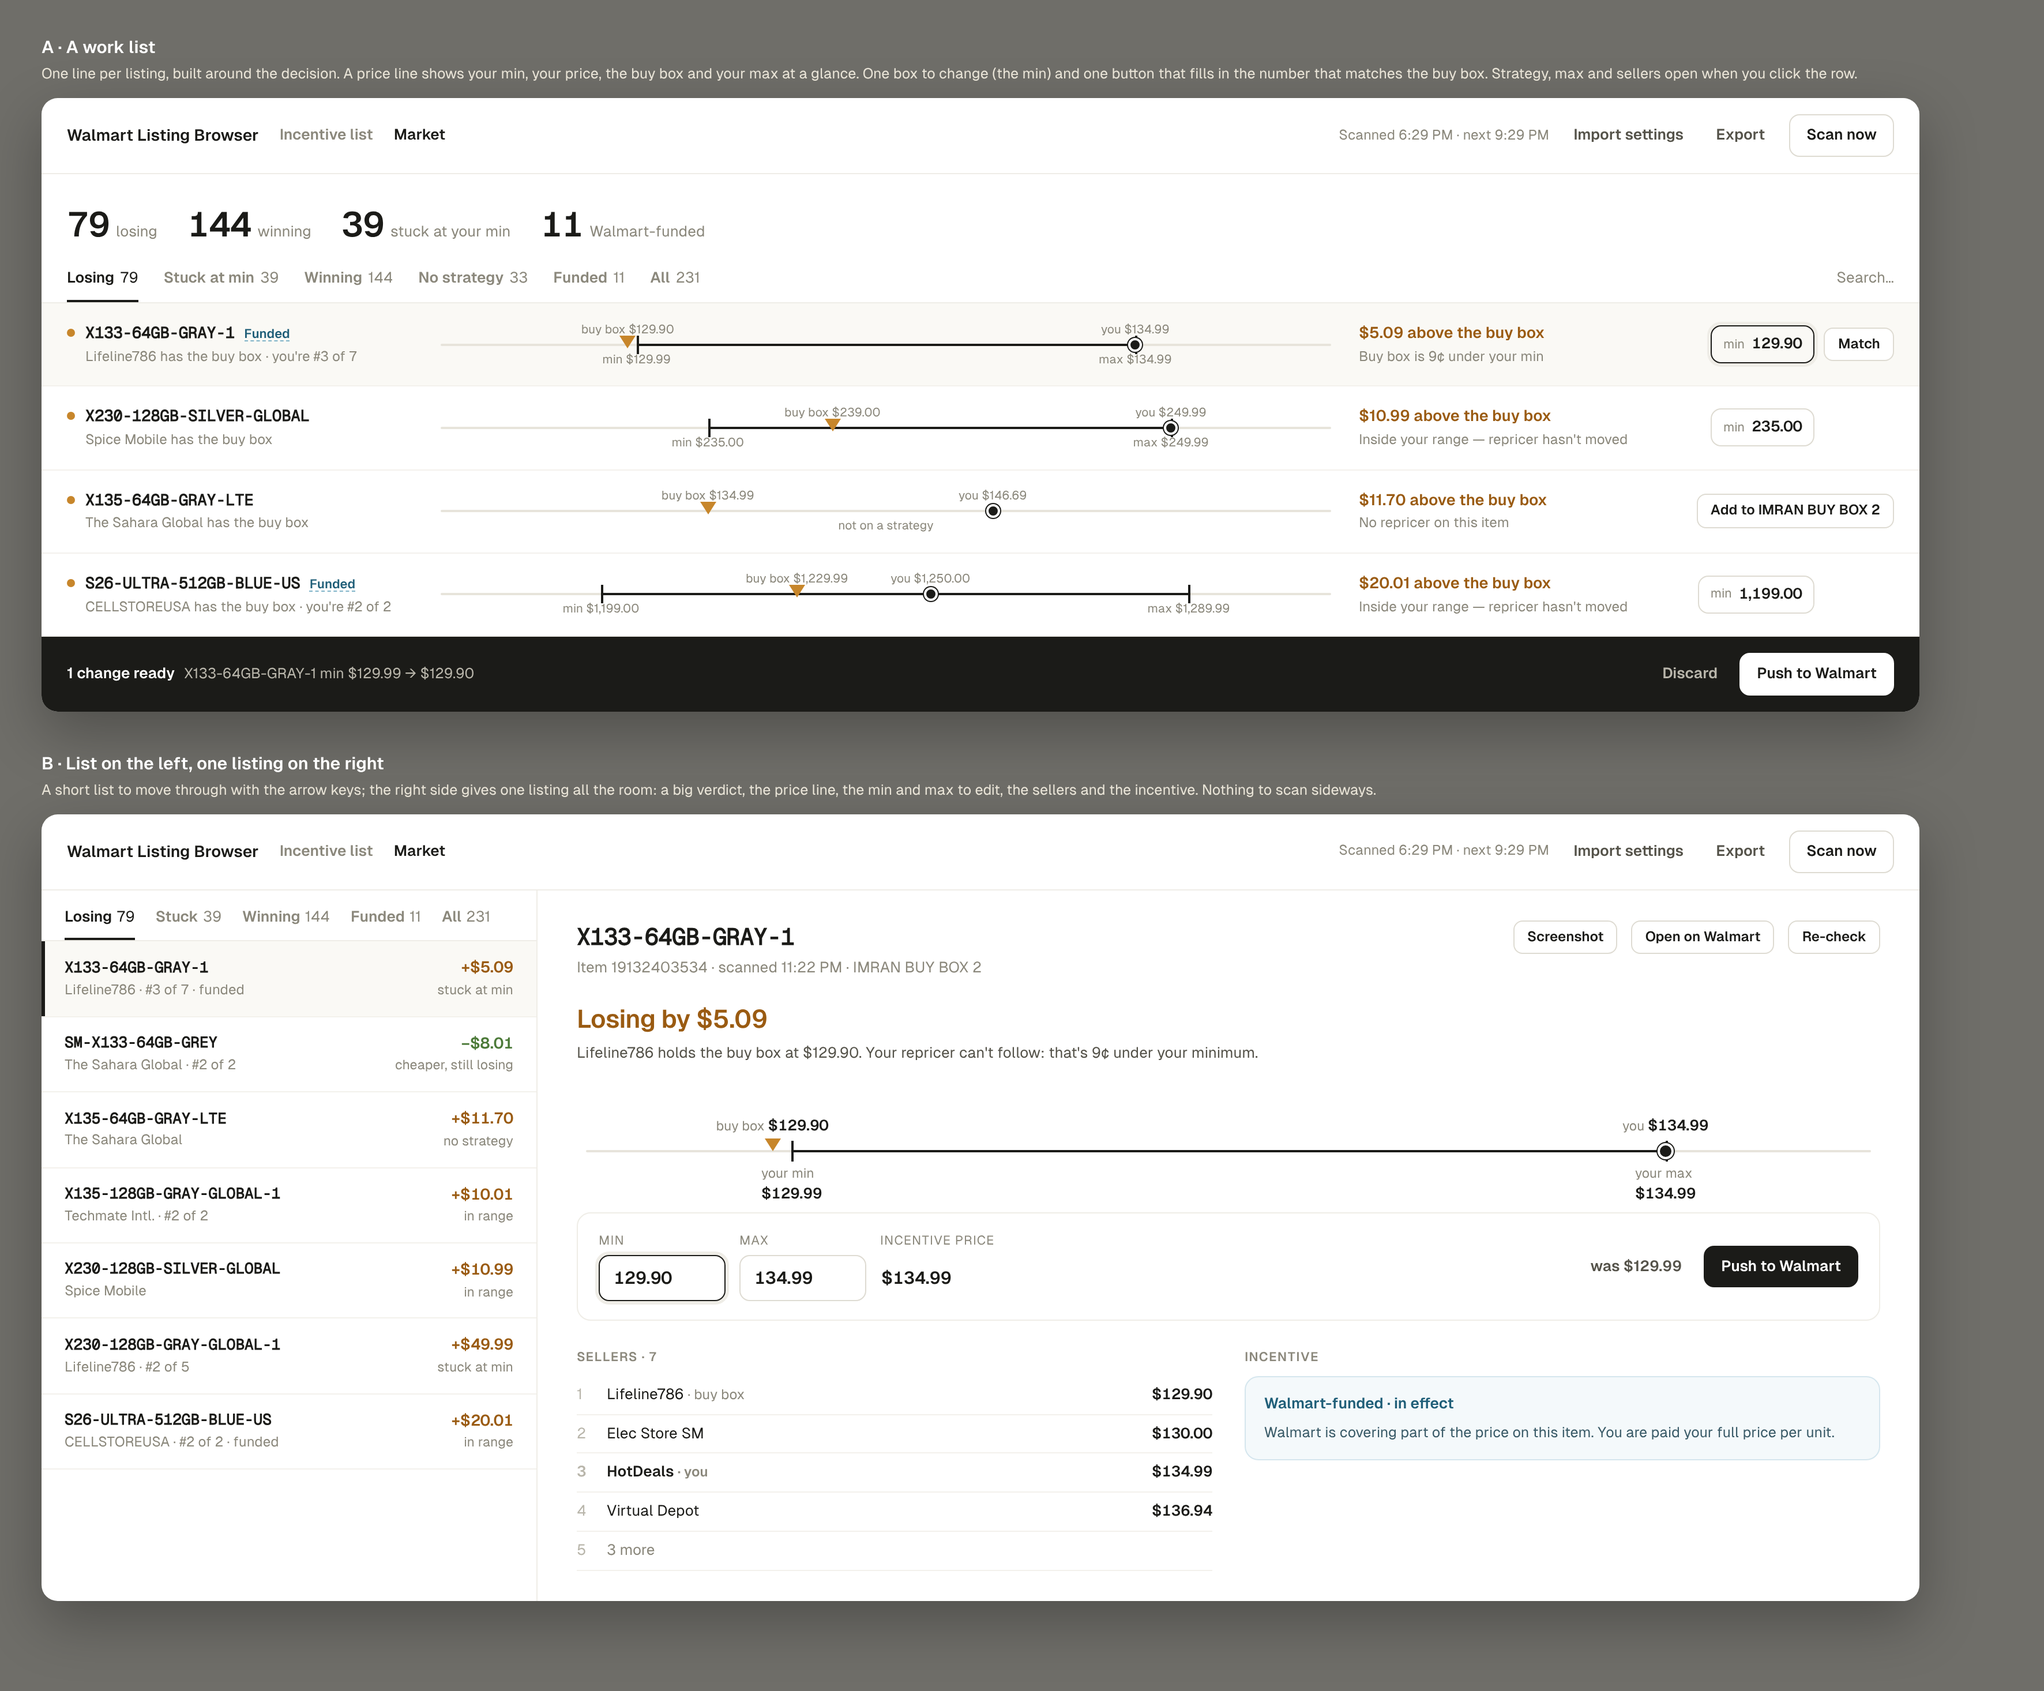
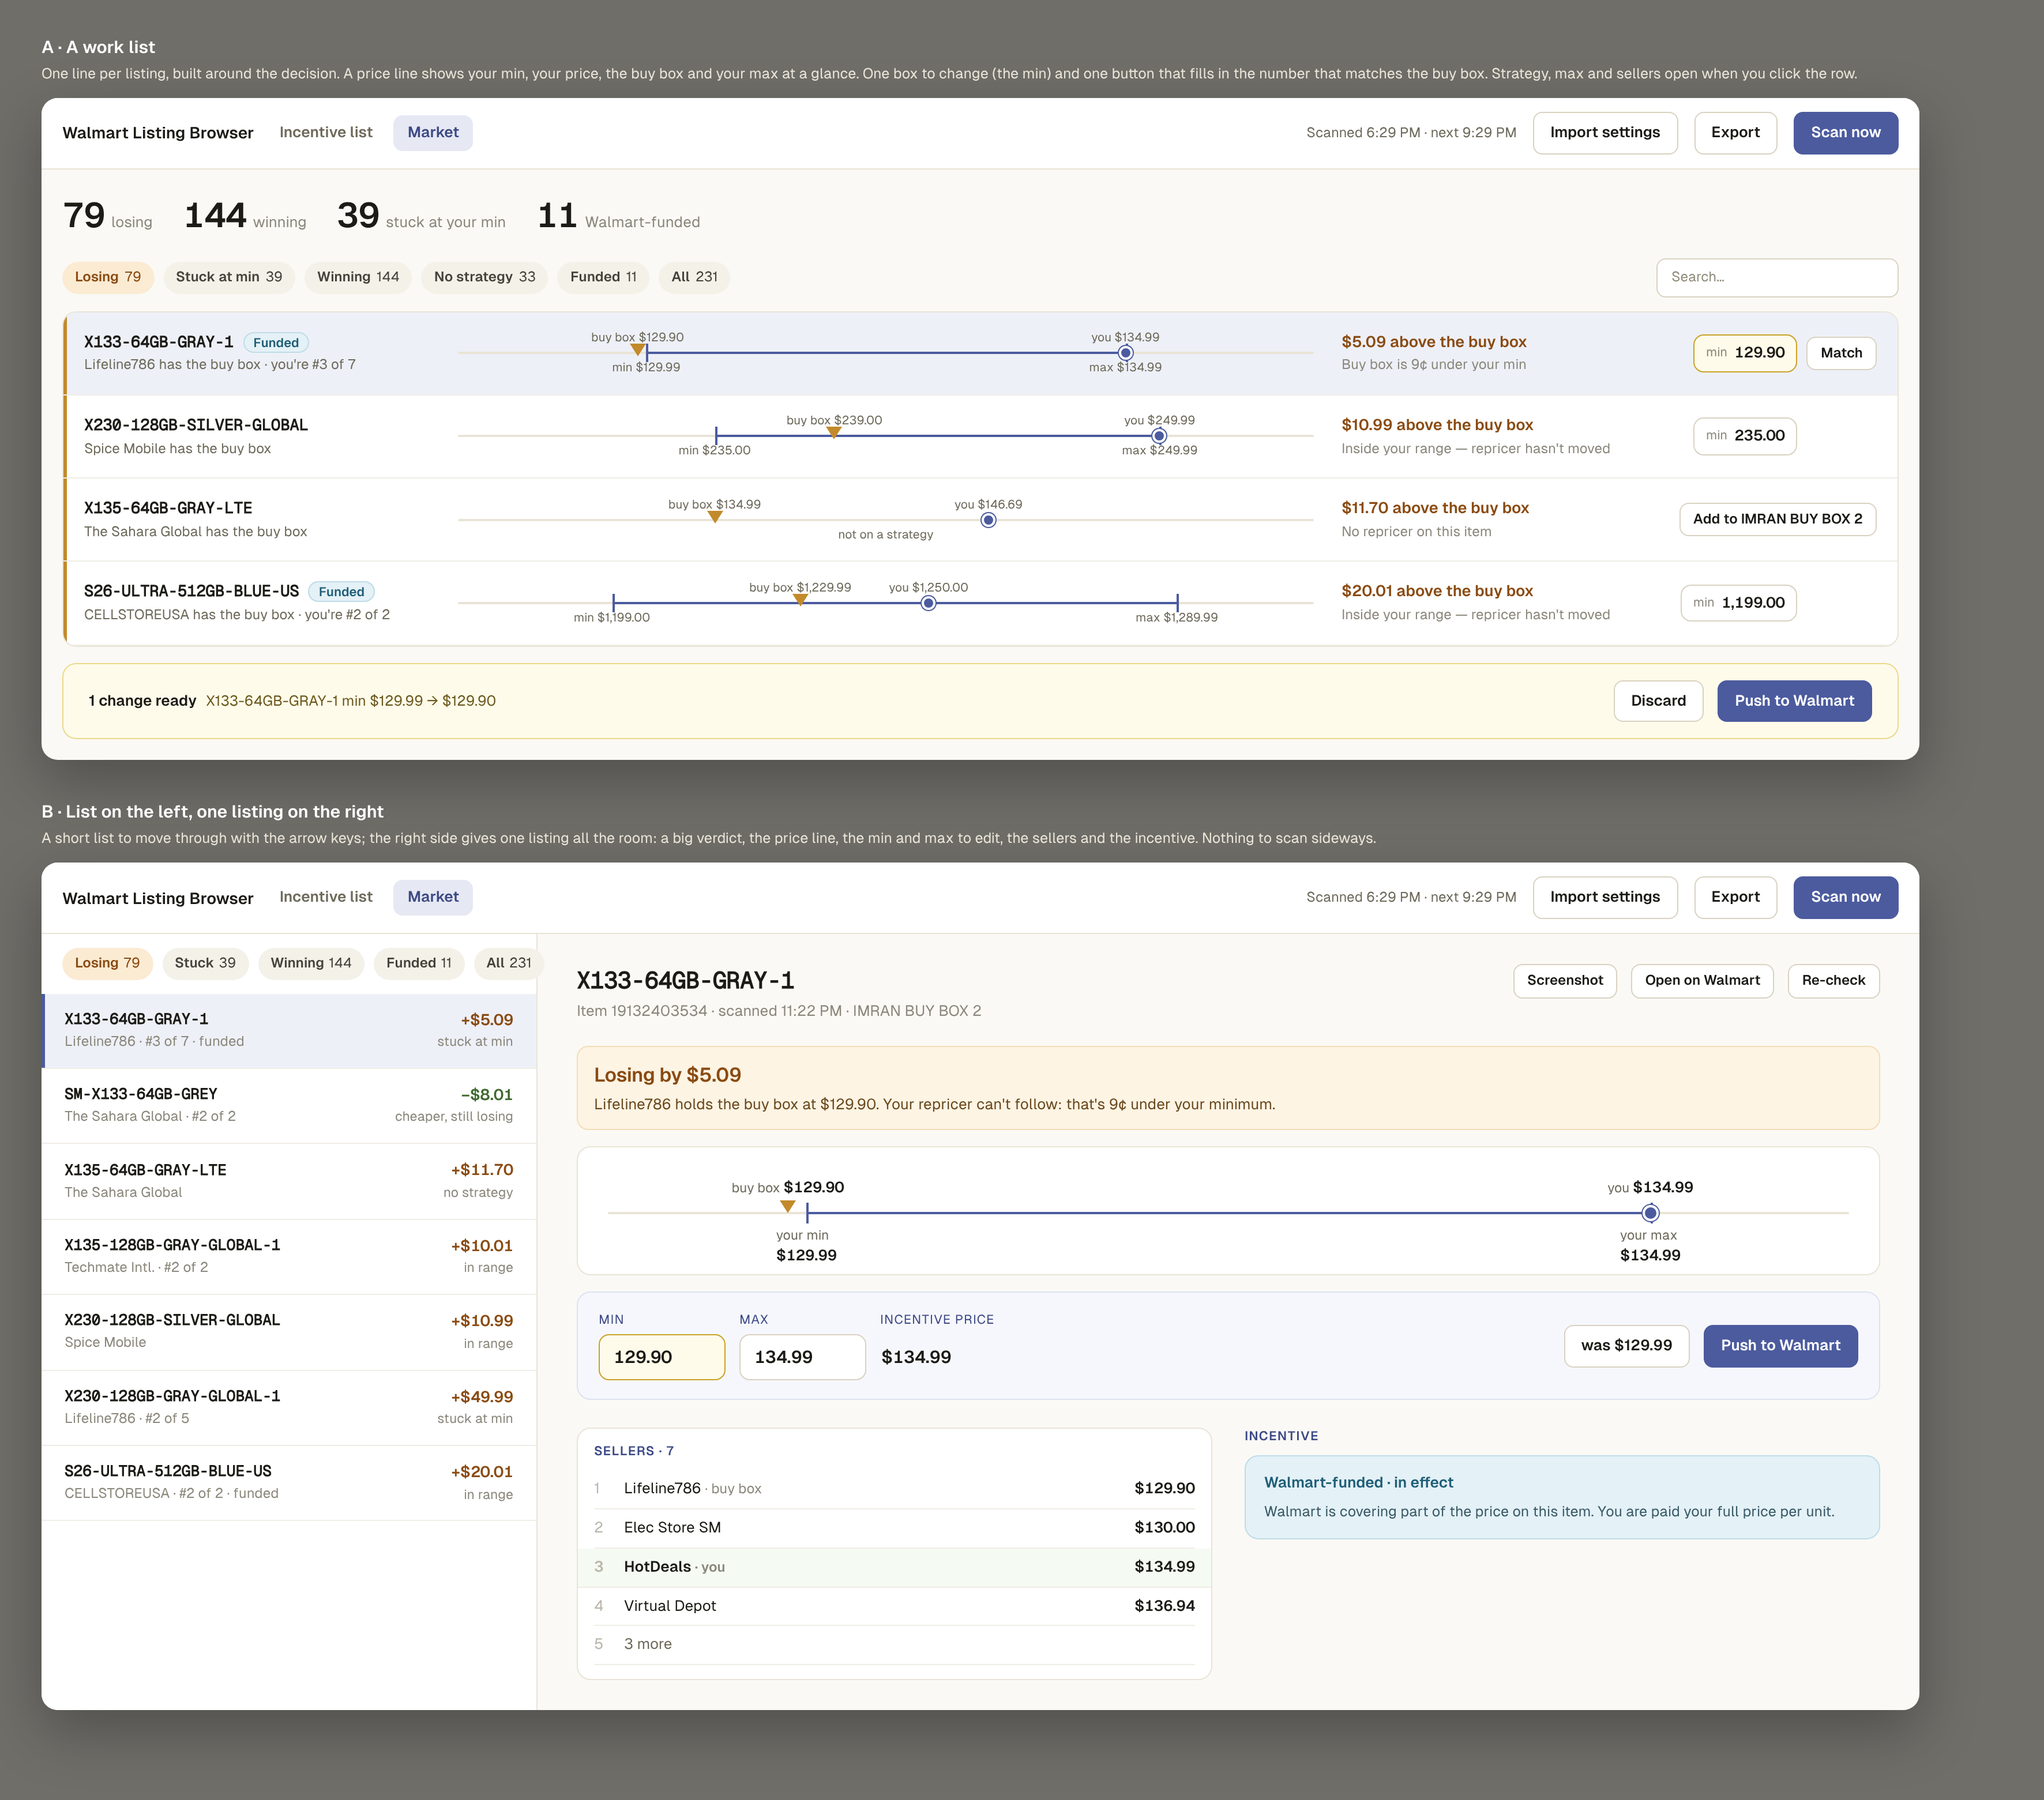
Redesign mock-up: use the app's own colours
Claude-Session: https://claude.ai/code/session_01XVA3MzL5SyxHxiBSdo63U7

diff --git a/docs/preview/market-redesign.html b/docs/preview/market-redesign.html
@@ -78,6 +78,37 @@ body { margin: 0; padding: 30px 36px 44px; background: #6f6e69; font: 13px/1.45 
 .b h4 { margin: 0 0 8px; font-size: 11px; text-transform: uppercase; letter-spacing: .06em; color: #8B887C; font-weight: 600; }
 .b .s { display: flex; gap: 10px; padding: 7px 0; border-bottom: 1px solid #F3F1EC; } .b .s .n { flex: 1 1 auto; } .b .s .k { width: 16px; color: #B9B6AB; } .b .s.me { font-weight: 600; } .b .s .t { color: #8B887C; font-size: 12px; }
 .b .inc { border: 1px solid #D5E6EE; background: #F4F9FB; border-radius: 12px; padding: 14px 16px; } .b .inc b { color: #1F5E78; } .b .inc p { margin: 6px 0 0; color: #3A5B68; font-size: 12.5px; }
+
+/* ---------- the app's own colours ---------- */
+body { color: #1C1B16; }
+.win { background: #FAF9F5; }
+.top { background: #fff; border-bottom-color: #E9E4D7; padding: 12px 18px; gap: 10px; }
+.nav { gap: 6px; color: #6E6B5C; } .nav span { padding: 6px 12px; border-radius: 8px; } .nav .on { background: #E6E8F3; color: #3D4A85; box-shadow: none; }
+.top .r, .muted { color: #6E6B5C; }
+.btn { border-color: #D9D2C1; border-radius: 8px; } .btn.ghost { border-color: #D9D2C1; padding: 8px 14px; color: #1C1B16; }
+.top .r .btn:last-child, .btn.dark { background: #4C5B9E; border-color: #4C5B9E; color: #fff; }
+.a .sum { padding: 18px 18px 4px; }
+.a .seg, .b .lh { gap: 8px; border-bottom: 0; padding: 12px 18px; align-items: center; }
+.a .seg span, .b .lh span { padding: 5px 11px; border-radius: 999px; background: #F4F1E9; font-size: 12px; color: #45433A; }
+.a .seg .on, .b .lh .on { background: #FBEBD3; color: #8A4B12; box-shadow: none; }
+.a .seg .srch { background: #fff; border: 1px solid #D9D2C1; border-radius: 8px; padding: 7px 12px; width: 210px; color: #918D7C; }
+.a .rows { margin: 0 18px 14px; background: #fff; border: 1px solid #E9E4D7; border-radius: 12px; overflow: hidden; }
+.a .row { border-bottom-color: #F0EDE6; padding: 16px 18px; box-shadow: inset 3px 0 0 #C28A2B; } .a .row.sel { background: #EEF0F8; }
+.a .dot { display: none; } .a .who .sub { margin-left: 0 !important; color: #6E6B5C; }
+.a .fund { background: #E4F1F6; color: #1F5E78; border: 1px solid #BFDCE8; border-radius: 999px; padding: 2px 8px; }
+.line .track { background: #E9E4D7; } .line .range, .line .tick { background: #4C5B9E; }
+.line .you { background: #4C5B9E; box-shadow: 0 0 0 1px #4C5B9E; } .line .bb { border-top-color: #C28A2B; } .line .lbl { color: #6E6B5C; }
+.a .say.lose b, .b .li .gap b { color: #8A4B12; } .b .li .gap.g b { color: #3F6A2F; }
+.a .min { border-color: #D9D2C1; background: #fff; } .a .min.c, .b .edit .f b.c { border-color: #C9A227; background: #FFFBEA; box-shadow: none; }
+.a .foot { margin: 0 18px 18px; border-radius: 12px; background: #FFFBEA; border: 1px solid #EBD98A; color: #1C1B16; }
+.a .foot .t span { color: #6B5A1E; } .a .foot .btn { background: #4C5B9E; border-color: #4C5B9E; color: #fff; } .a .foot .btn.ghost { background: #fff; border-color: #D9D2C1; color: #1C1B16; }
+.b .list { border-right-color: #E9E4D7; background: #fff; } .b .li { border-bottom-color: #F0EDE6; } .b .li.sel { background: #EEF0F8; box-shadow: inset 3px 0 0 #4C5B9E; }
+.b .verd { background: #FDF4E4; border: 1px solid #F3DDB6; border-radius: 10px; padding: 12px 14px; color: #8A4B12; font-size: 17px; } .b .verd small { color: #6B4A1E; }
+.b .lineBox { background: #fff; border: 1px solid #E9E4D7; border-radius: 12px; margin: 14px 0; padding: 34px 26px 30px; }
+.b .edit { background: #F6F7FC; border-color: #DDE1F2; } .b .edit .f span, .b h4 { color: #3D4A85; } .b .edit .f b { background: #fff; border-color: #D9D2C1; } .b .edit .f b.ro { background: none; }
+.b .two > div:first-child { background: #fff; border: 1px solid #E9E4D7; border-radius: 12px; padding: 12px 14px; }
+.b .s { border-bottom-color: #F0EDE6; } .b .s.me { background: #F5FAF2; margin: 0 -14px; padding: 7px 14px; }
+.b .inc { background: #E4F1F6; border-color: #BFDCE8; }
 </style>
 </head>
 <body>
@@ -90,6 +121,7 @@ body { margin: 0; padding: 30px 36px 44px; background: #6f6e69; font: 13px/1.45 
   <div class="sum"><span class="big num">79<small>losing</small></span><span class="big num">144<small>winning</small></span><span class="big num">39<small>stuck at your min</small></span><span class="big num">11<small>Walmart-funded</small></span></div>
   <div class="seg"><span class="on">Losing<i>79</i></span><span>Stuck at min<i>39</i></span><span>Winning<i>144</i></span><span>No strategy<i>33</i></span><span>Funded<i>11</i></span><span>All<i>231</i></span><span class="srch muted">Search…</span></div>
 
+  <div class="rows">
   <div class="row sel">
     <div class="who"><b class="mono"><span class="dot"></span>X133-64GB-GRAY-1</b><span class="fund">Funded</span><div class="sub" style="margin-left:16px">Lifeline786 has the buy box · you're #3 of 7</div></div>
     <div class="line"><div class="track"></div><div class="range" style="left:22%;width:56%"></div>
@@ -128,6 +160,7 @@ body { margin: 0; padding: 30px 36px 44px; background: #6f6e69; font: 13px/1.45 
       <div class="you" style="left:55%"></div><div class="lbl" style="left:55%">you $1,250.00</div></div>
     <div class="say lose"><b>$20.01 above the buy box</b><div class="sub">Inside your range — repricer hasn't moved</div></div>
     <div class="act"><span class="min num"><span>min</span>1,199.00</span><span class="btn sm" style="visibility:hidden">Match</span></div>
+  </div>
   </div>
   <div class="foot"><div class="t"><b>1 change ready</b><span>X133-64GB-GRAY-1 min $129.99 → $129.90</span></div><span class="btn ghost">Discard</span><span class="btn">Push to Walmart</span></div>
 </div>
